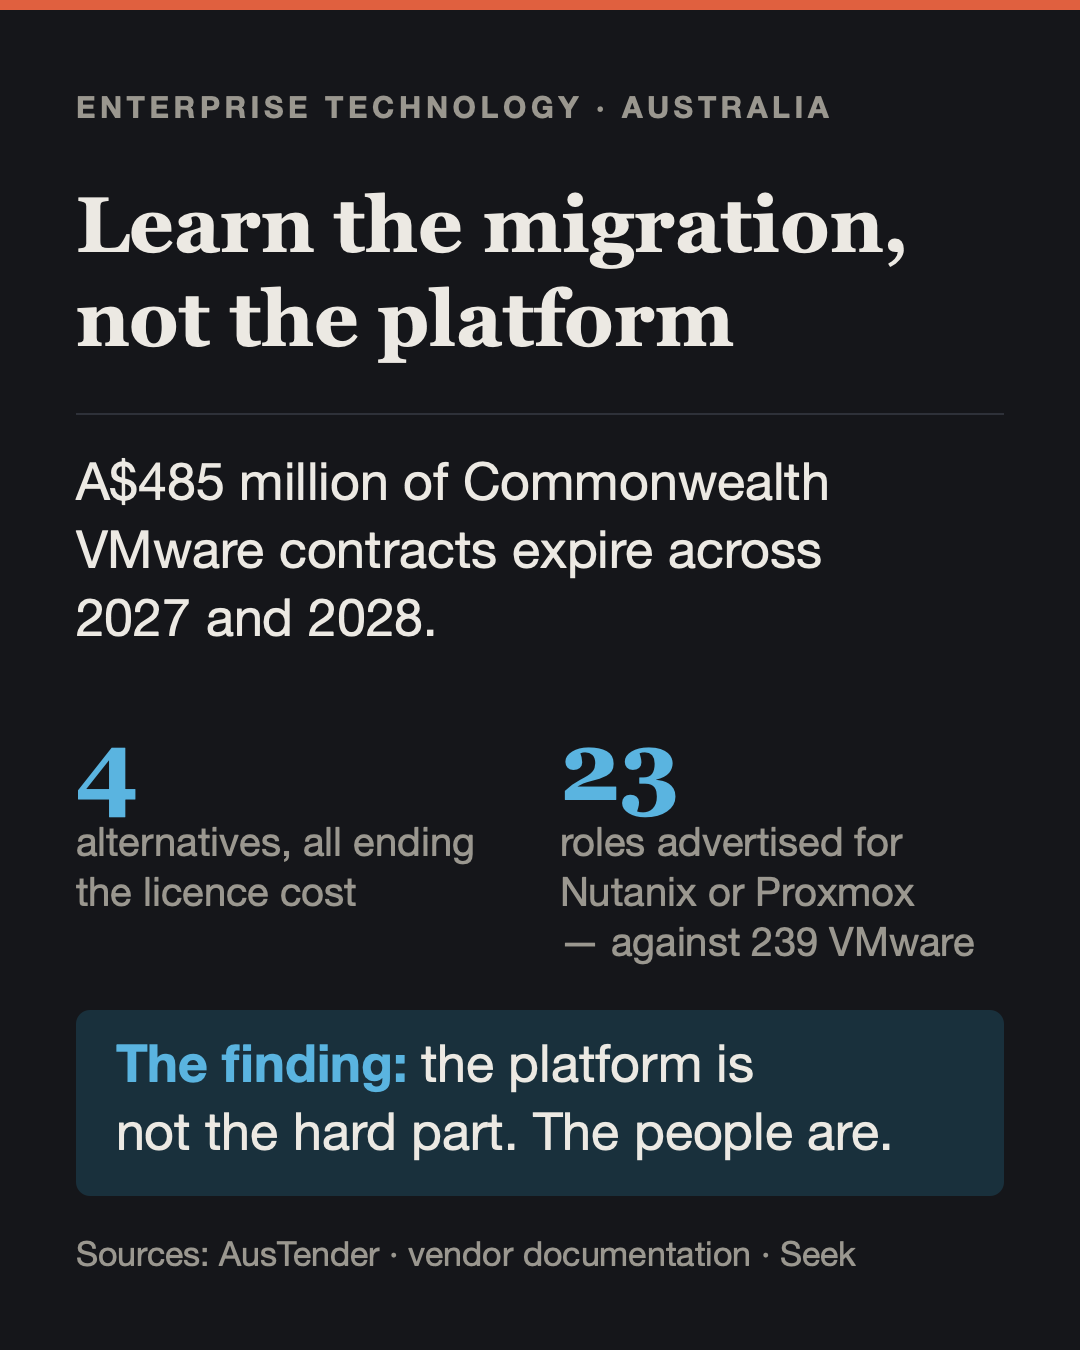
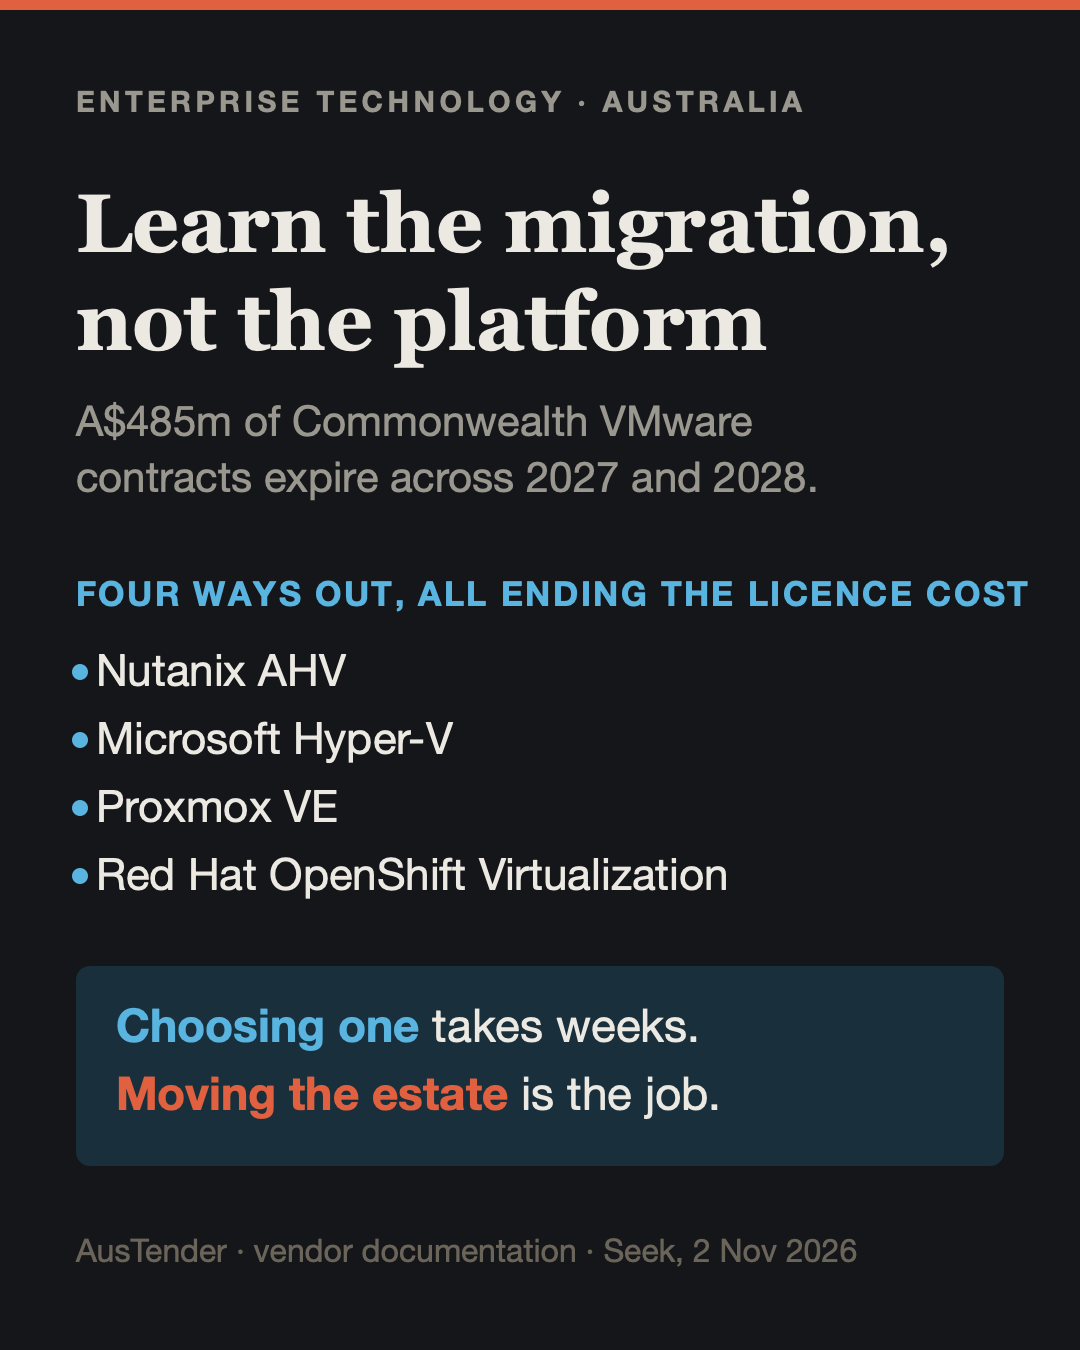
Cards: name all four alternatives, and state the article's finding
Hyper-V was absent from both cards while the article calls it the
alternative most readers will reach for. Both now name all four, which
is the article's own opening point.

The finding line also drifted a layer below the thesis. The article
argues that choosing is easy and moving is hard — that is what the title
means — so both cards now read 'Choosing one takes weeks. Moving the
estate is the job.'

Role counts come off the cards. They are a timing detail that cannot be
stated honestly without the Hyper-V caveat, and an image has no room for
one. They remain in the article, where the caveat is.

Changed region(s): [[0.0611, 0.1244, 0.9472, 0.9644], [0.0611, 0.0622, 0.7639, 0.0933]]

diff --git a/_posts/2026-11-02-learn-the-migration.md b/_posts/2026-11-02-learn-the-migration.md
@@ -5,7 +5,7 @@ subtitle: "A$485 million of Commonwealth VMware contracts expire across 2027 and
 date: 2026-11-02
 slug: learn-the-migration
 image: /assets/og/learn-the-migration.png
-image_alt: "Learn the migration, not the platform. A$485m of Commonwealth VMware contracts expiring 2027-2028 across 19 contracts and 11 agencies; four alternatives all ending the licence cost. The finding: the platform is not the hard part, the people are."
+image_alt: "Learn the migration, not the platform. A$485m of Commonwealth VMware contracts expiring across 19 contracts and 11 agencies, with 2028 the year most of the value expires, and four ways out all ending the licence cost. Choosing one takes weeks; moving the estate is the job."
 description: "Nineteen Commonwealth VMware contracts worth A$485m expire across 2027 and 2028. The alternatives differ in cost and tooling, but the scarce thing is the capacity to move a large estate safely. What contract records, vendor documentation and Australian job advertisements show."
 ---
 
